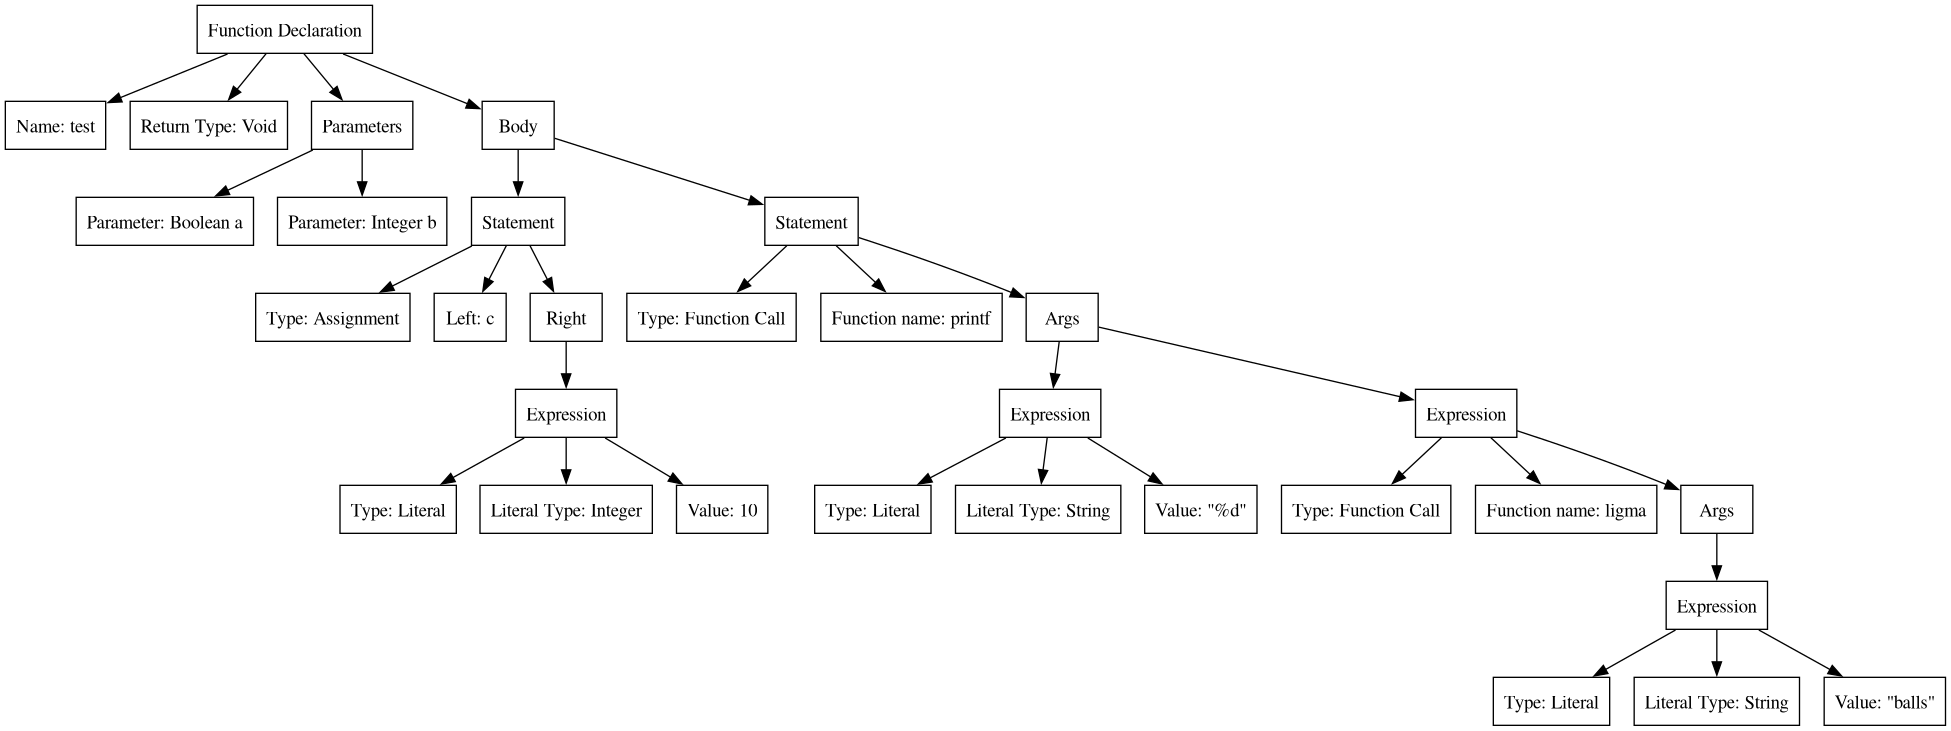
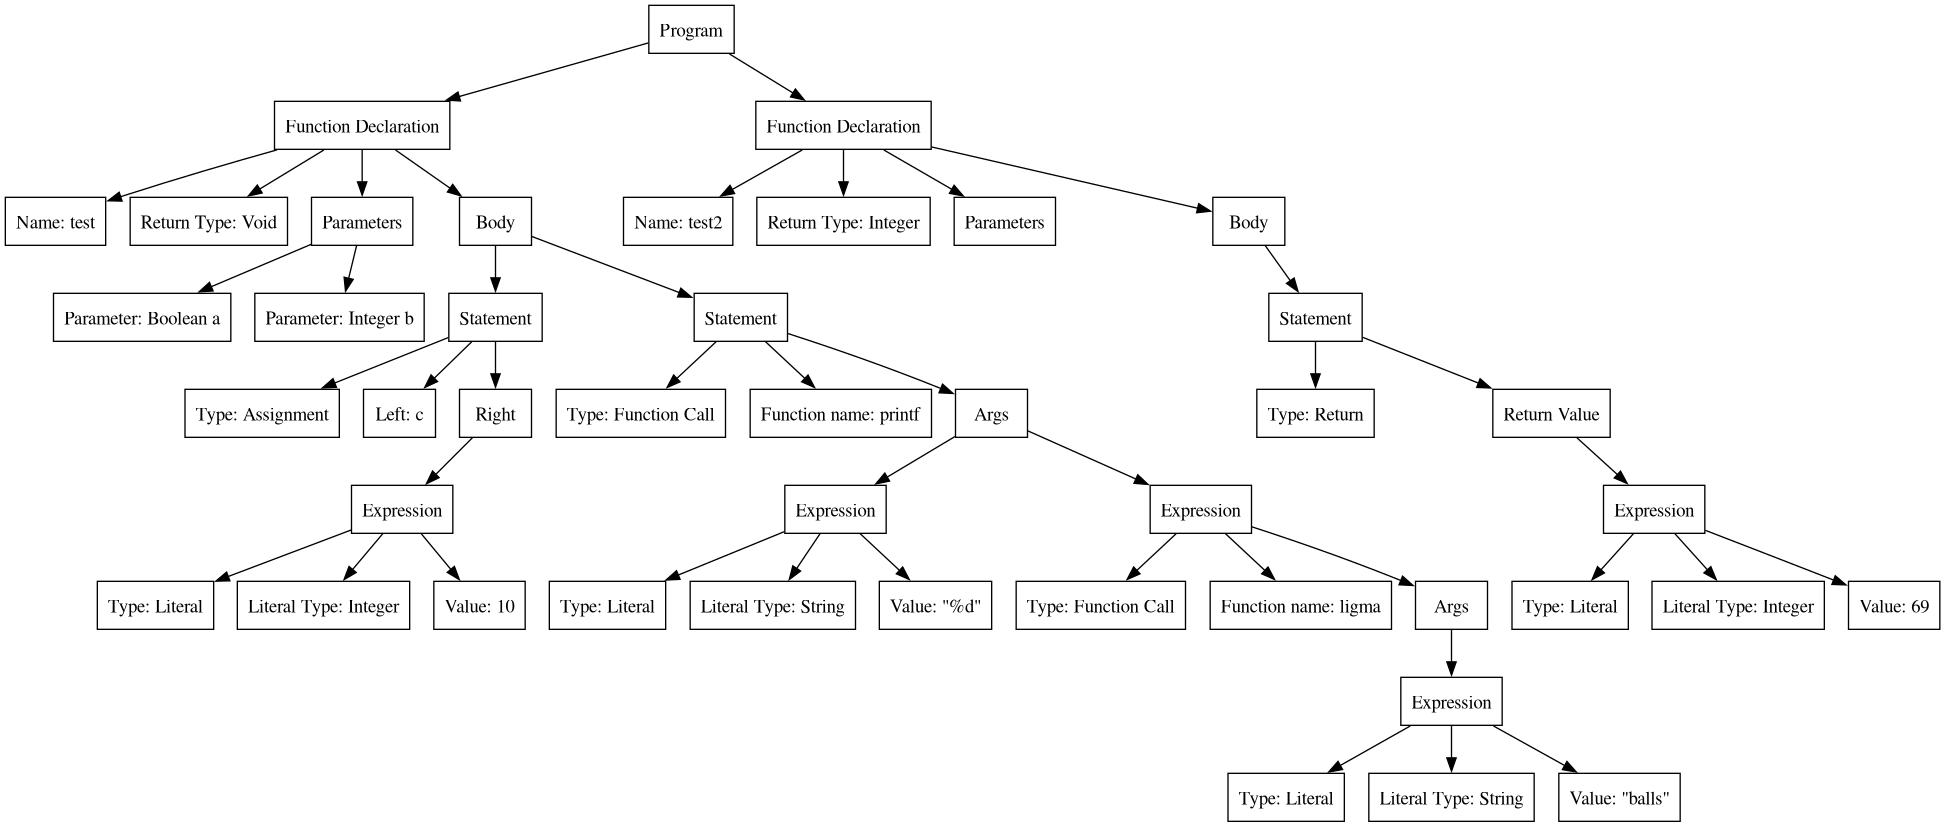
return statement

diff --git a/pkg/ast/visualize.go b/pkg/ast/visualize.go
@@ -16,9 +16,11 @@ func nextNodeID() string {
 func ExportASTToGraphviz(prog *Prog, w io.Writer) {
 	fmt.Fprintln(w, "digraph AST {")
 	fmt.Fprintln(w, `  node [shape=box];`)
+	root_id := nextNodeID()
+	fmt.Fprintf(w, `  %s [label="Program"]`+"\n", root_id)
 
 	for _, decl := range prog.Declarations {
-		writeFunctionDeclaration(decl, "root", w)
+		writeFunctionDeclaration(decl, root_id, w)
 	}
 
 	fmt.Fprintln(w, "}")
@@ -107,6 +109,15 @@ func writeStatement(stmt Statement, parent string, w io.Writer) {
 		fmt.Fprintf(w, `  %s [label="Right"]`+"\n", right_id)
 		fmt.Fprintf(w, `  %s -> %s`+"\n", id, right_id)
 		writeExpression(s.Right, right_id, w)
+	case *ReturnStatement:
+		fmt.Fprintf(w, `  %s [label="Type: Return"]`+"\n", type_id)
+		fmt.Fprintf(w, `  %s -> %s`+"\n", id, type_id)
+
+		value_id := nextNodeID()
+		fmt.Fprintf(w, `  %s [label="Return Value"]`+"\n", value_id)
+		fmt.Fprintf(w, `  %s -> %s`+"\n", id, value_id)
+
+		writeExpression(s.Value, value_id, w)
 	}
 }
 
@@ -153,6 +164,10 @@ func writeExpression(expr Expression, parent string, w io.Writer) {
 		value_id := nextNodeID()
 		fmt.Fprintf(w, `  %s [label="Value: %s"]`+"\n", value_id, escape(e.Value))
 		fmt.Fprintf(w, `  %s -> %s`+"\n", id, value_id)
+	case *EmptyExpression:
+		type_id := nextNodeID()
+		fmt.Fprintf(w, `  %s [label="Type: Empty Expression"]`+"\n", type_id)
+		fmt.Fprintf(w, `  %s -> %s`+"\n", id, type_id)
 	}
 }
 

diff --git a/pkg/parser/parser.go b/pkg/parser/parser.go
@@ -223,12 +223,29 @@ func (p *Parser) ParseFunctionCall() *ast.FunctionCallStatement {
 	}
 }
 
+func (p *Parser) ParseReturn() *ast.ReturnStatement {
+	// consume the "return"
+	p.Next()
+	var e ast.Expression
+
+	if p.MatchNext(lexer.Punctuator, ";", 0) {
+		e = &ast.EmptyExpression{}
+	} else {
+		e = p.ParseExpression()
+	}
+
+	return &ast.ReturnStatement{
+		Value: e,
+	}
+}
+
 func (p *Parser) ParseStatement() ast.Statement {
 	// determine kind of statement
 	// right now we have assignment, variable declaration and function call
 	// assignment is the easiest, just an <identifier> '=' <expression>';'
 	// then we have function call which is <identifier> '(' [<expression> { ',' <expression> } ] ')'
 	// then we have variable declaration which is <type> <identifier> '=' <expression>
+	// then we have return statement which is 'return' <expression>
 
 	if p.MatchNext(lexer.Identifier, "", 0) && p.MatchNext(lexer.Operator, "=", 1) {
 		return p.ParseAssignment()
@@ -240,6 +257,10 @@ func (p *Parser) ParseStatement() ast.Statement {
 
 	if p.MatchNext(lexer.Identifier, "", 0) && p.MatchNext(lexer.Punctuator, "(", 1) {
 		return p.ParseFunctionCall()
+	}
+
+	if p.MatchNext(lexer.Keyword, "return", 0) {
+		return p.ParseReturn()
 	}
 
 	c := p.Next()

diff --git a/pkg/ast/ast.go b/pkg/ast/ast.go
@@ -158,10 +158,24 @@ type CommentStatement struct {
 func (s *CommentStatement) statement_mark() {}
 func (s *CommentStatement) String() string  { return s.Value }
 
+type ReturnStatement struct {
+	Value Expression
+}
+
+func (s *ReturnStatement) statement_mark() {}
+func (s *ReturnStatement) String() string {
+	return "return " + s.Value.String()
+}
+
 type Expression interface {
 	expression_mark()
 	String() string
 }
+
+type EmptyExpression struct{}
+
+func (e *EmptyExpression) expression_mark() {}
+func (e *EmptyExpression) String() string   { return "empty expression" }
 
 type LiteralExpression struct {
 	Type  Type

diff --git a/pkg/lexer/tokens.go b/pkg/lexer/tokens.go
@@ -12,7 +12,9 @@ var PunctuatorTokens = map[string]bool{
 	".": true,
 }
 
-var KeywordTokens = map[string]bool{}
+var KeywordTokens = map[string]bool{
+	"return": true,
+}
 
 var OperatorTokens = map[string]bool{
 	"=":  true,

diff --git a/cmd/gen_ast/main.go b/cmd/gen_ast/main.go
@@ -7,6 +7,7 @@ import (
 	"lang/pkg/lexer"
 	"lang/pkg/parser"
 	"os"
+	"os/exec"
 )
 
 func printUsage() {
